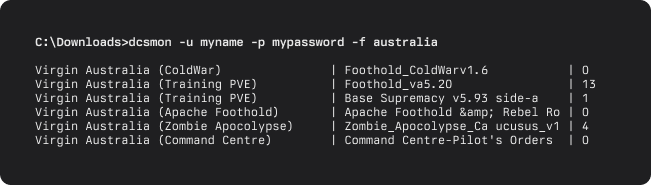
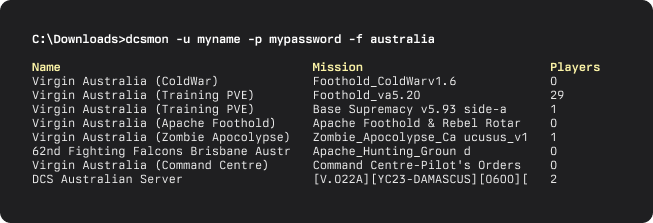
make it prettier

diff --git a/src/main.rs b/src/main.rs
@@ -33,15 +33,15 @@ struct Servers {
 #[derive(Parser, Debug)]
 #[clap(author, version, about, long_about = None)]
 struct Args {
-    /// Your DCS username
+    /// Your DCS username (required)
     #[clap(short)]
     username: String,
 
-    /// Your DCS password
+    /// Your DCS password (required)
     #[clap(short)]
     password: String,
 
-    /// A server name search filter
+    /// Optional server name search filter
     #[clap(short, default_value(""))]
     filter: String,
 }
@@ -64,22 +64,15 @@ fn sanitize_name(name: &str) -> String {
     fixed.trim().to_string()
 }
 
-fn display_server(server: &Server) {
-    println!("{:36.36} | {:30.30} | {}", 
-        sanitize_name(server.NAME.as_str()),
-        sanitize_name(server.MISSION_NAME.as_str()),
-        server.PLAYERS.as_str().parse::<i32>().unwrap() - 1);
-}
-
 fn display_servers(servers: &Servers, filter : &String) {
-    println!("");
-    println!("{:36.36} | {:30.30} | {}", "Name", "Mission", "Players");
-    println!("{:->36.36}-+-{:->30.30}-+--------", "", "");
+    println!("\n\x1b[93m{:36.36}   {:30.30}   {}\x1b[0m", "Name", "Mission", "Players");
 
     for server in &servers.SERVERS {
-        let name = server.NAME.as_str().to_lowercase();
-        if name.contains(filter) {
-            display_server(&server);
+        if server.NAME.to_lowercase().contains(filter) {
+            println!("{:36.36}   {:30.30}   {}", 
+                sanitize_name(&server.NAME),
+                sanitize_name(&server.MISSION_NAME),
+                server.PLAYERS.parse::<i32>().unwrap() - 1);
         }
     }
 }

diff --git a/README.md b/README.md
@@ -1,17 +1,25 @@
 ## dcsmon
 ![screenshot](./screenshot.png)
 
-Command-line server browser for Digital Combat Simulator so you can monitor your favorite servers
+Command-line server browser for Digital Combat Simulator
 
 ## Installation
 
-Download the dcsmon.exe executable from the [releases](https://github.com/glenmurphy/dcsmon/releases) page (under the 'Assets' expando)
+Download the latest dcsmon.exe executable from the [releases](https://github.com/glenmurphy/dcsmon/releases) page (under the 'Assets' expando)
 
 ## Usage
 Uses your DCS username and password
 
-    dcsmon.exe -u username -p password -f filtertext
+    dcsmon.exe -u username -p password
 
-## Build
+Filter on server names using the -f command line
 
+    dcsmon.exe -u username -p password -f australia
+
+## Develop
+
+Requires [Rust](https://www.rust-lang.org/tools/install)
+
+    git clone https://github.com/glenmurphy/dcsmon.git
+    cd dcsmon
     cargo build
